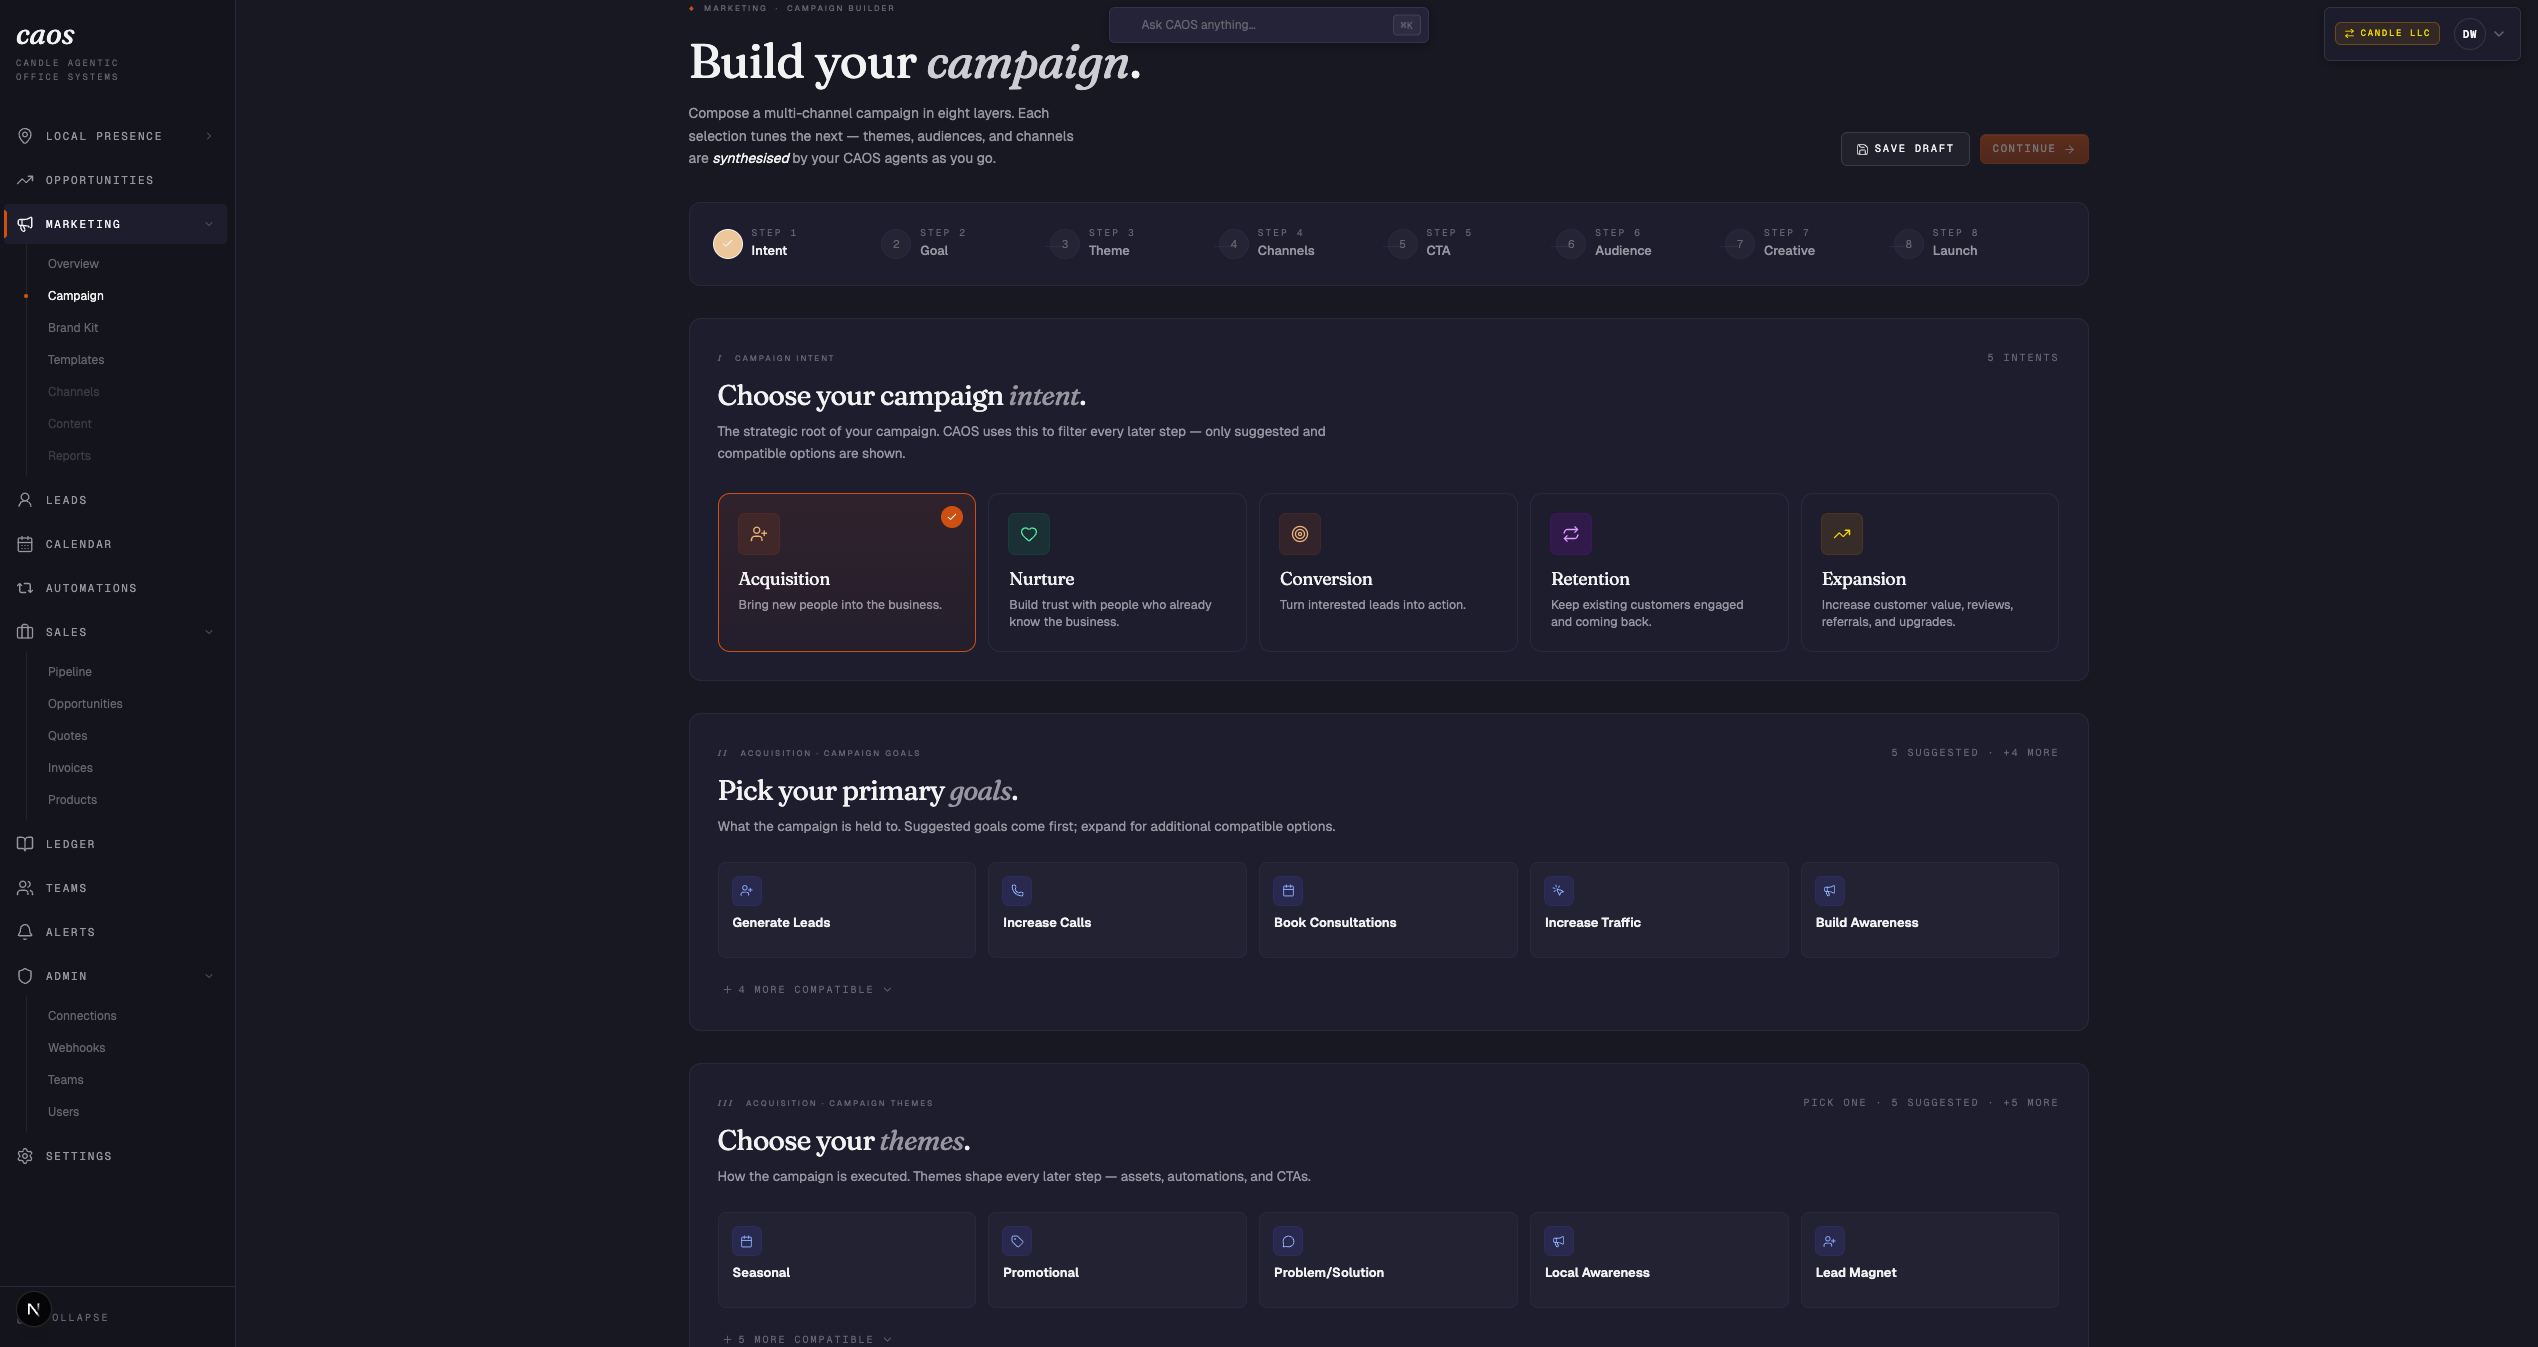
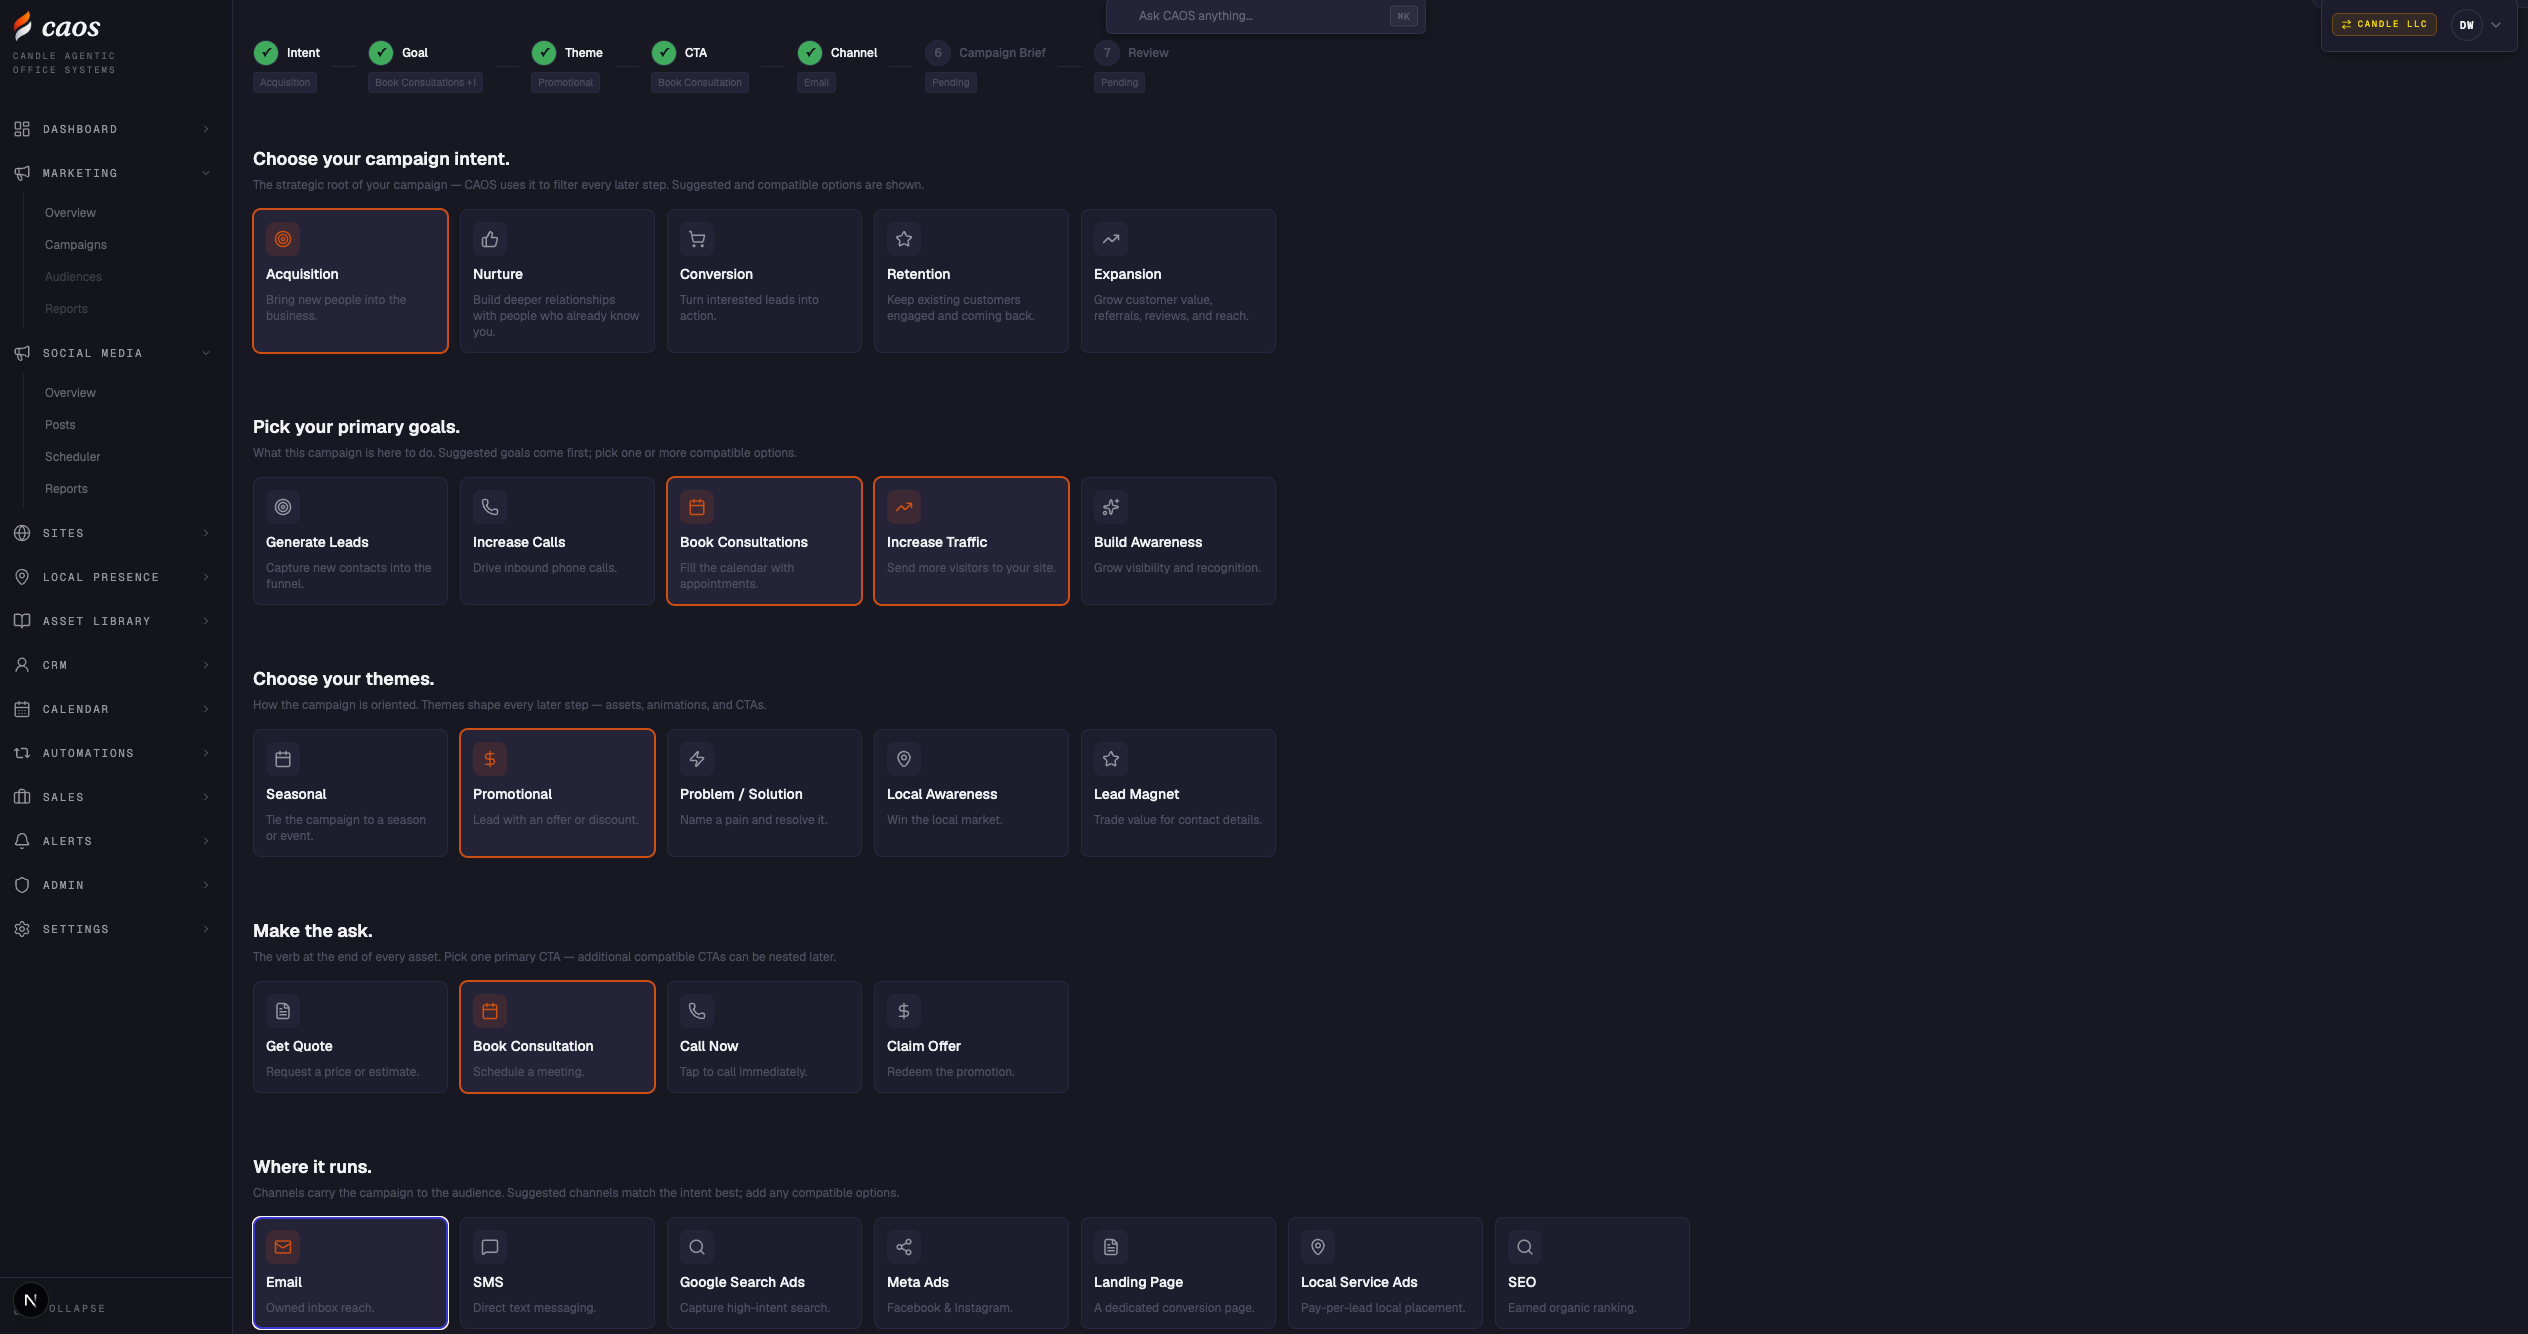
Refresh Candle section: CAOS business-OS copy, PMC and new screenshots, prune old images

diff --git a/index.html b/index.html
@@ -282,7 +282,7 @@
         </button>
         <button class="ritem" data-id="candle" onclick="selectProject('candle')">
           <span class="rno">02</span>
-          <span class="ri-main"><span class="ri-name"><span class="ri-star" title="Featured">★</span> Candle <span class="ri-status st-flag">Venture</span></span><span class="ri-desc">White-label AI operations platform for SMBs.</span></span>
+          <span class="ri-main"><span class="ri-name"><span class="ri-star" title="Featured">★</span> Candle <span class="ri-status st-flag">Venture</span></span><span class="ri-desc">CAOS: the all-in-one business OS for local businesses.</span></span>
           <span class="ri-arrow">→</span>
         </button>
         <button class="ritem" data-id="dinoquote" onclick="selectProject('dinoquote')">
@@ -462,32 +462,32 @@
 
 <template id="src-candle">
   <span class="d-tag">● Venture · Co-Founder</span>
-  <h2 class="d-title"><em>Candle</em>: AI Operations Platform</h2>
-  <p class="d-sub">An AI operations platform for small and mid-sized businesses, built with two co-founders. One shared client profile powers every downstream workflow: local search, SEO, competitor research, brand, and campaigns.</p>
+  <h2 class="d-title"><em>Candle</em>: CAOS, the Business Operating System</h2>
+  <p class="d-sub">CAOS (Candle Agentic Office Systems): an all-in-one business operating system for local businesses, built with two co-founders. One shared client context powers agentic workflows across marketing, social, local presence, and CRM, with human approval on everything that ships.</p>
   <div class="d-metrics">
     <div class="m"><div class="mv">1 PMC</div><div class="mk">Feeds every workflow</div></div>
     <div class="m"><div class="mv">HITL</div><div class="mk">Approval gates</div></div>
     <div class="m"><div class="mv">CRM sync</div><div class="mk">Real-time, bidirectional</div></div>
-    <div class="m"><div class="mv">Multi<span>·</span>tenant</div><div class="mk">White-label · RBAC</div></div>
+    <div class="m"><div class="mv">Multi<span>·</span>tenant</div><div class="mk">RBAC · per-client</div></div>
   </div>
   <div class="d-cols">
     <div class="d-desc">
-      <p>Candle is an AI-powered operations platform I'm building with two collaborators, designed to let agencies run multiple SMB clients from a single command center. The core idea is a <em>Product Marketing Context (PMC)</em>: a foundational profile capturing a business's positioning, services, and story that every AI workflow draws from automatically, so nothing starts from scratch.</p>
-      <p>On top of the PMC: a human-in-the-loop workflow engine that runs multi-stage jobs on recurring schedules (weekly/monthly/quarterly) and pauses at review gates for client approval before advancing. Current workflows handle local search and Google Business Profile optimization, automated SEO audits and website generation, competitor research that surfaces gaps and opportunities, and SMS/email campaign pipelines with A/B testing. A Local Presence module and Brand Kit give clients visibility into and control over how they show up across local search and the web.</p>
-      <p>The platform is multi-tenant with role-based access control, and includes a full real-time CRM sync layer: contacts, tasks, appointments, and calendars: with bidirectional third-party CRM integration, webhook ingestion, and graceful degradation when upstream systems fail.</p>
+      <p>Candle replaces the patchwork of tools a local business juggles (spreadsheets, separate SEO tools, social schedulers, manual follow-up) with one command center. The core idea is the <em>Product Marketing Context (PMC)</em>: a rich, agent-maintained profile of the client's business, audience, personas, and proof points that every AI feature draws from, so nothing starts from scratch and nothing gets invented.</p>
+      <p>Two engines run on top of it. Multi-stage <em>agent workflows</em> (SEO audits, Google Business Profile optimization, competitor intelligence, email sequences) run on schedules and pause at human approval gates before anything is applied. Interactive <em>AI studios</em> draft social posts, emails, and websites in a live back-and-forth, generating on-brand imagery and checking every claim against the PMC before it reaches a draft.</p>
+      <p>Around those sit the operating modules: campaign builder, social scheduler, Local Presence (review monitoring, SEO health scoring, competitor benchmarking), websites and funnels, a CRM with sales pipeline, and an asset library with brand kit. The platform is multi-tenant with role-based access, an admin view-as-client mode, and encrypted two-way CRM integration with webhook ingestion and graceful degradation when upstream systems fail.</p>
     </div>
     <div>
       <div class="d-hi-lbl">How It Works</div>
-      <div class="d-hi">Product Marketing Context (PMC): one client profile feeds every AI workflow downstream</div>
-      <div class="d-hi">Human-in-the-loop workflow engine with recurring schedules and client approval gates</div>
-      <div class="d-hi">Local Presence module: GBP optimization and local search ranking workflows</div>
-      <div class="d-hi">SEO audit and website generation workflows driven by the client's PMC</div>
-      <div class="d-hi">Competitor research workflows surfacing gaps and opportunities automatically</div>
-      <div class="d-hi">SMS and email campaign pipelines with A/B testing and performance tracking</div>
-      <div class="d-hi">Real-time bidirectional CRM sync: contacts, tasks, appointments, calendars</div>
-      <div class="d-hi">Multi-tenant with RBAC, Brand Kit, and per-client command center</div>
+      <div class="d-hi">Product Marketing Context (PMC): one rich client profile grounds every workflow and draft</div>
+      <div class="d-hi">Multi-stage agent workflows with approval gates: SEO audit, GBP optimizer, competitor intel, email sequences</div>
+      <div class="d-hi">AI studios draft social posts, emails, and websites live, with on-brand image generation</div>
+      <div class="d-hi">Local Presence OS: review monitoring, SEO health scores, competitor benchmarking with scraped profiles</div>
+      <div class="d-hi">CRM and sales pipeline: lead profiles, drag-and-drop stages, real-time two-way sync</div>
+      <div class="d-hi">Asset library with brand kit, folders, tags, and AI-generation lineage</div>
+      <div class="d-hi">Multi-tenant with RBAC and admin view-as-client mode</div>
     </div>
   </div>
+  <div class="d-links"><a class="d-link" href="https://candle-aos.com/" target="_blank"><svg viewBox="0 0 24 24" stroke-width="1.8"><path d="M7 17 17 7M7 7h10v10"/></svg>Visit candle-aos.com</a></div>
   <div class="browser">
     <div class="bbar"><span class="bdot"></span><span class="bdot"></span><span class="bdot"></span><span class="burl">candle: client command center</span></div>
     <div class="bscreen"><img class="main" src="images/cnd-signin.png" alt="Sign In" onclick="lbOpen(this)" /></div>
@@ -495,23 +495,34 @@
   <div class="gallery-cap"><b data-cap-label>Sign In</b><span data-cap-text>The Candle Office gateway: "empowering businesses with smart automations and agentic workflows."</span></div>
   <div class="rail-thumbs">
     <img class="rthumb active" src="images/cnd-signin.png" alt="Sign In" data-desc="The Candle Office gateway: &quot;empowering businesses with smart automations and agentic workflows.&quot;" onclick="setMain(this)" onmouseover="capHover(this)" onmouseout="capReset(this)" />
-    <img class="rthumb" src="images/cnd-campaign-acquisition.png" alt="Acquisition" data-desc="An acquisition campaign taking shape: intent, goals, and themes selected up top; only compatible options are surfaced." onclick="setMain(this)" onmouseover="capHover(this)" onmouseout="capReset(this)" />
-    <img class="rthumb" src="images/cnd-campaign-nurture.png" alt="Nurture" data-desc="A nurture campaign: themes, channels, and CTAs for re-engaging people who already know the business." onclick="setMain(this)" onmouseover="capHover(this)" onmouseout="capReset(this)" />
+    <img class="rthumb" src="images/cnd-pmc.png" alt="Product Marketing Context" data-desc="The PMC: a rich, agent-maintained profile of the client's business, audience, and proof points that grounds every workflow and draft." onclick="setMain(this)" onmouseover="capHover(this)" onmouseout="capReset(this)" />
+    <img class="rthumb" src="images/cnd-campaign-acquisition.png" alt="Campaign Builder" data-desc="An acquisition campaign taking shape: intent, goals, themes, CTA, and channels, with only compatible options surfaced at each step." onclick="setMain(this)" onmouseover="capHover(this)" onmouseout="capReset(this)" />
     <img class="rthumb" src="images/cnd-campaign-creative.png" alt="Generate Creative" data-desc="The creative agents draft channel-ready copy grounded in the brief: intent, theme, and audience." onclick="setMain(this)" onmouseover="capHover(this)" onmouseout="capReset(this)" />
-    <img class="rthumb" src="images/cnd-campaign-build.png" alt="Campaign Builder" data-desc="Compose a multi-channel campaign in eight layers: each choice tunes the next, synthesized by the agents as you go." onclick="setMain(this)" onmouseover="capHover(this)" onmouseout="capReset(this)" />
-    <img class="rthumb" src="images/cnd-seo-audit.png" alt="SEO Audit" data-desc="An SEO audit workflow: a human-in-the-loop agent scoping the audit before it runs (site type, priority pages, keywords)." onclick="setMain(this)" onmouseover="capHover(this)" onmouseout="capReset(this)" />
-    <img class="rthumb" src="images/cnd-gbp-optimize.png" alt="GBP Optimize" data-desc="Google Business Profile optimization: the agent proposes changes; you review and approve before they're applied." onclick="setMain(this)" onmouseover="capHover(this)" onmouseout="capReset(this)" />
+    <img class="rthumb" src="images/cnd-campaign-build.png" alt="Campaign Composer" data-desc="Compose a multi-channel campaign in eight layers: each choice tunes the next, synthesized by the agents as you go." onclick="setMain(this)" onmouseover="capHover(this)" onmouseout="capReset(this)" />
+    <img class="rthumb" src="images/cnd-campaign-email.png" alt="Generated Email" data-desc="The generated email, draft-ready: subject line, pain-point narrative, and CTA button, all grounded in the campaign brief." onclick="setMain(this)" onmouseover="capHover(this)" onmouseout="capReset(this)" />
+    <img class="rthumb" src="images/cnd-post-content.png" alt="Social Post Setup" data-desc="Setting up a social post: the key message, destination link, target platforms, and content pillar that ground the draft." onclick="setMain(this)" onmouseover="capHover(this)" onmouseout="capReset(this)" />
+    <img class="rthumb" src="images/cnd-seo-audit.png" alt="SEO Audit Workflow" data-desc="A four-stage SEO audit run: agent chat scopes the audit, fills the brief live, and waits for approval before the audit starts." onclick="setMain(this)" onmouseover="capHover(this)" onmouseout="capReset(this)" />
+    <img class="rthumb" src="images/cnd-gbp-optimize.png" alt="GBP Optimize" data-desc="Google Business Profile optimization: the agent proposes changes; you review and approve before they are applied." onclick="setMain(this)" onmouseover="capHover(this)" onmouseout="capReset(this)" />
     <img class="rthumb" src="images/cnd-gbp-report.png" alt="GBP Report" data-desc="The GBP optimization report: a before/after score summary across categories, services, description, and attributes." onclick="setMain(this)" onmouseover="capHover(this)" onmouseout="capReset(this)" />
     <img class="rthumb" src="images/cnd-gbp-applylog.png" alt="GBP Apply Log" data-desc="The apply log: every change marked applied or flagged for manual action (12 of 14 automated)." onclick="setMain(this)" onmouseover="capHover(this)" onmouseout="capReset(this)" />
     <img class="rthumb" src="images/cnd-seo-health.png" alt="SEO Health" data-desc="SEO Health: overall score, open issues, and a technical / on-page / content breakdown with prioritized findings." onclick="setMain(this)" onmouseover="capHover(this)" onmouseout="capReset(this)" />
-    <img class="rthumb" src="images/cnd-competitors.png" alt="Competitors" data-desc="Competitor comparison: your local presence benchmarked against 10 rivals, with top opportunities and an activity feed." onclick="setMain(this)" onmouseover="capHover(this)" onmouseout="capReset(this)" />
+    <img class="rthumb" src="images/cnd-competitors.png" alt="Competitors" data-desc="Competitor comparison: your local presence benchmarked against local rivals, with top opportunities and an activity feed." onclick="setMain(this)" onmouseover="capHover(this)" onmouseout="capReset(this)" />
     <img class="rthumb" src="images/cnd-lead-crm.png" alt="Lead / CRM" data-desc="A full CRM lead profile: activity timeline, tasks, appointments, and custom fields, synced in real time." onclick="setMain(this)" onmouseover="capHover(this)" onmouseout="capReset(this)" />
     <img class="rthumb" src="images/cnd-calendar.png" alt="Schedules" data-desc="Scheduled workflows: recurring audit and analysis cadences on a run calendar that launches automatically." onclick="setMain(this)" onmouseover="capHover(this)" onmouseout="capReset(this)" />
-    <img class="rthumb" src="images/cnd-media.png" alt="Assets & Media" data-desc="The assets & media library: photos and brand assets with AI analysis recommending what to capture next." onclick="setMain(this)" onmouseover="capHover(this)" onmouseout="capReset(this)" />
+    <img class="rthumb" src="images/cnd-media.png" alt="Assets &amp; Media" data-desc="The assets &amp; media library: photos and brand assets with AI analysis recommending what to capture next." onclick="setMain(this)" onmouseover="capHover(this)" onmouseout="capReset(this)" />
     <img class="rthumb" src="images/candle-website-1.png" alt="Website Output 1" data-desc="Example output from the CAOS website builder workflow, generated for a client." onclick="setMain(this)" onmouseover="capHover(this)" onmouseout="capReset(this)" />
     <img class="rthumb" src="images/candle-website-2.png" alt="Website Output 2" data-desc="Example output from the CAOS website builder workflow, generated for a client." onclick="setMain(this)" onmouseover="capHover(this)" onmouseout="capReset(this)" />
     <img class="rthumb" src="images/candle-website-3.png" alt="Website Output 3" data-desc="Example output from the CAOS website builder workflow, generated for a client." onclick="setMain(this)" onmouseover="capHover(this)" onmouseout="capReset(this)" />
   </div>
+  <!-- Pending screenshots (files not yet captured; re-add when saved to Desktop):
+       cnd-dashboard.png (Ledger command center), cnd-campaign-brief.png (brief agent chat),
+       cnd-campaign-review.png (launch-readiness hub), cnd-post-setup.png (series classification),
+       cnd-post-review.png (review & generate), cnd-post-draft.png (finished package w/ AI image),
+       cnd-seo-findings.png (report cards + prioritized findings), cnd-reviews.png (Reviews & Reputation),
+       cnd-competitor-detail.png (scraped competitor profile), cnd-crm-contacts.png (contacts table),
+       cnd-sales-pipeline.png (pipeline dashboard), cnd-workflows-installed.png (admin definitions),
+       cnd-brand-kit.png (brand kit), cnd-pmc-personas.png (PMC personas table).
+       Also pending replacement with new-UI captures: cnd-seo-health, cnd-competitors, cnd-lead-crm, cnd-media. -->
 </template>
 
 <template id="src-jobsearch">